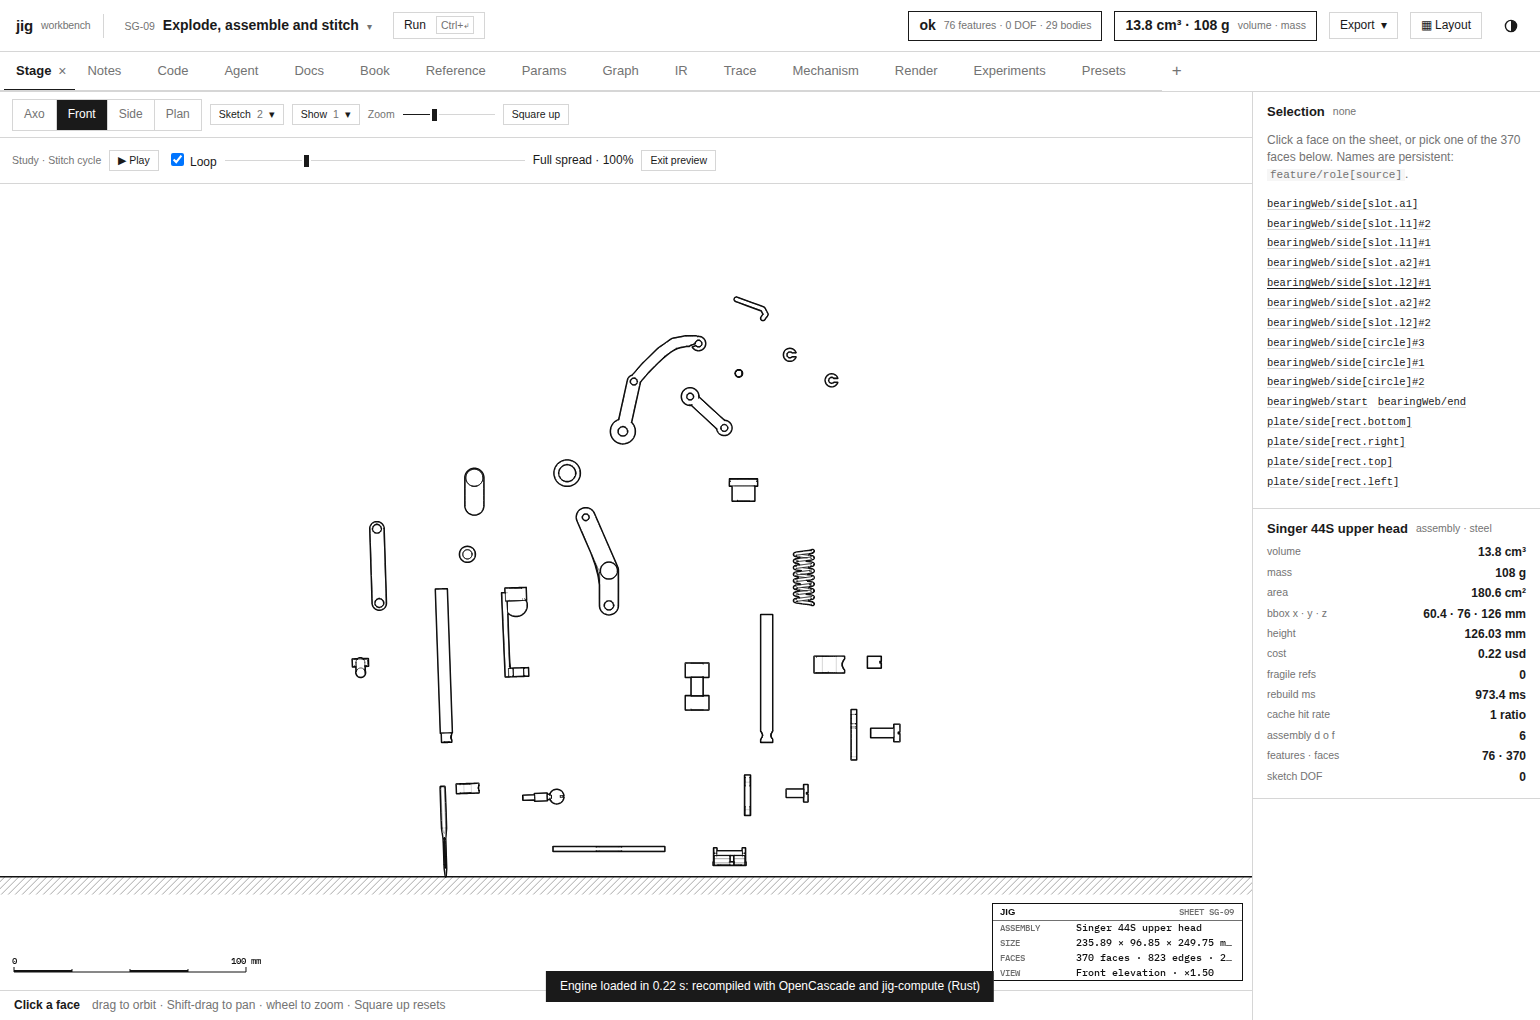
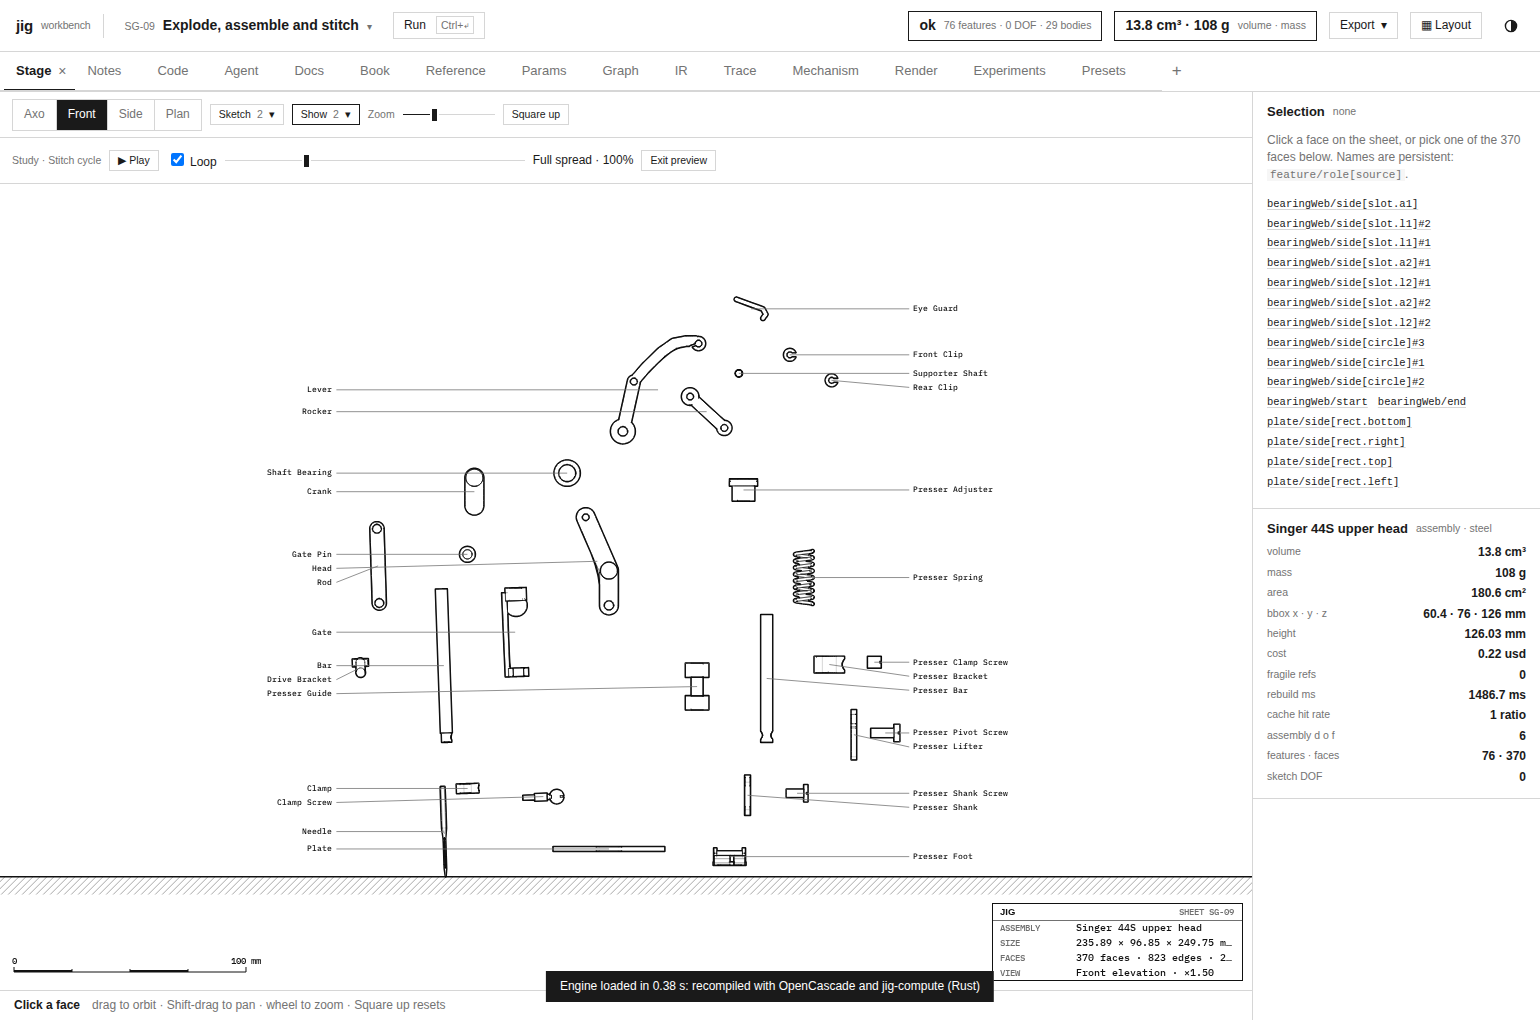
Label assembly components in CAD Stage and fade callouts during explosion

diff --git a/import/jigcad/src/stage/sheet.js b/import/jigcad/src/stage/sheet.js
@@ -4,7 +4,7 @@
 // ring stroke; silhouettes at the silhouette stroke; overlays; the sketch; the sheet furniture.
 import { V, boxOk, boxCorners, boxSize, emptyBox, growBox, fmtNum, fmtVolume, applyM, applyDir } from './math.js';
 import { VIEWS, SUN, normView, viewCam, proj, makeCam } from './camera.js';
-import { readColors, K, hatchPattern, rgba32, text, toneOf } from './theme.js';
+import { readColors, K, hatchPattern, rgba32, text, textWidth, toneOf } from './theme.js';
 import { sceneOf, sceneFacts, sketchToWorld, sameBody } from './scene.js';
 import { buffers, projectInstance, rasterInstance, paperImage, hatchImage, coverTriangles } from './raster.js';
 import { lineWork } from './lines.js';
@@ -17,6 +17,7 @@ export const OVERLAYS = [
   { key: 'shadows', label: 'Shadows', about: 'hatched sun shadows on the floor', on: true },
   { key: 'grid', label: 'Grid', about: 'the floor grid', on: true },
   { key: 'names', label: 'Names', about: 'face and edge names under the pointer', on: true },
+  { key: 'componentNames', label: 'Component names', about: 'label assembly components on the sheet', on: false },
   { key: 'dims', label: 'Dims', about: 'overall dimensions of the bounding box', on: true },
   { key: 'hidden', label: 'Hidden', about: 'hidden edges, dashed', on: false },
   { key: 'overhang', label: 'Overhang', about: 'faces that print over air, hatched', on: false },
@@ -172,6 +173,8 @@ export function draw(canvas, program, viewIn, o = {}) {
 
   // ---- overlays
   if (!sketchView && !thumb) {
+    if (has('componentNames') && program?.kind === 'assembly' && o.componentNameOpacity !== 0)
+      drawComponentNames(ctx, C, state, o.componentNameOpacity ?? 1);
     if (has('normals')) drawNormals(ctx, C, state);
     if (has('dims') && scene.instances.length) drawBoxDims(ctx, C, state);
     if (has('joints') && program?.kind === 'assembly') drawMechanism(ctx, C, state, program);
@@ -419,4 +422,54 @@ function titleRows(program, scene, view, cam, sk) {
   }
   rows.push(['VIEW', vname + zoom]);
   return rows;
+}
+
+// One leader per occurrence. A multi-body component contributes one combined
+// world-space box, so its callout follows every pose, including a Stage drag.
+function drawComponentNames(ctx, C, { cam, scene, width, height }, opacity) {
+  const boxes = new Map();
+  for (const { body, box } of scene.instances) {
+    if (!body.part) continue;
+    const bounds = boxes.get(body.part) ?? emptyBox();
+    growBox(bounds, box[0]);
+    growBox(bounds, box[1]);
+    boxes.set(body.part, bounds);
+  }
+  const visible = [];
+  for (const [id, box] of boxes) {
+    const [x, y] = proj(cam, box[0].map((v, i) => (v + box[1][i]) / 2));
+    if (x >= 0 && x <= width && y >= 0 && y <= height) {
+      const words = id.replace(/([a-z0-9])([A-Z])/g, '$1 $2').replace(/[_-]/g, ' ');
+      visible.push({ x, y, name: words[0].toUpperCase() + words.slice(1) });
+    }
+  }
+  visible.sort((a, b) => a.x - b.x);
+  const middle = Math.ceil(visible.length / 2);
+  ctx.save();
+  ctx.globalAlpha = opacity;
+  ctx.lineWidth = 0.75;
+  for (const [side, column] of [visible.slice(0, middle), visible.slice(middle)].entries()) {
+    if (!column.length) continue;
+    const right = side === 1;
+    const size = K.labelSm;
+    const longest = Math.max(...column.map(p => textWidth(ctx, p.name, size)));
+    const columnX = right ? Math.min(width - longest - 8, column.at(-1).x + 24)
+      : Math.max(longest + 8, column[0].x - 24);
+    column.sort((a, b) => a.y - b.y);
+    const gap = Math.min(size + 6, Math.max(0, height - 60) / Math.max(1, column.length - 1));
+    let previous = 4 - gap;
+    column.forEach(({ x, y, name }, i) => {
+      const bottom = height - 52 - gap * (column.length - 1 - i);
+      const lineY = Math.min(bottom, Math.max(previous + gap, y, size));
+      previous = lineY;
+      ctx.strokeStyle = C.muted;
+      ctx.beginPath();
+      ctx.moveTo(x, y);
+      ctx.lineTo(columnX, lineY);
+      ctx.stroke();
+      text(ctx, C, name, columnX + (right ? 4 : -4), lineY,
+        { size, align: right ? 'left' : 'right', bg: C.stage });
+    });
+  }
+  ctx.restore();
 }

diff --git a/import/jigcad/src/stage/stage.js b/import/jigcad/src/stage/stage.js
@@ -44,6 +44,7 @@ export function createStage(element, host = {}, options = {}) {
     if (!W || !H) size();
     const dpr = Math.min(2, globalThis.devicePixelRatio || 1);
     last = draw(canvas, posedProgram(), view, { width: W, height: H, dpr, overlays: on, selection, sketches: solved, sheet: options.sheet || (host.preset && host.preset.id) || 'J-01', colorsFrom: element, dragging: drag && drag.ref,
+      componentNameOpacity: preview?.componentNameOpacity,
       pose: preview?.pose ?? posed?.pose, fitBox: previewFit ?? (heldFit && heldFit.name === (program && program.name) && view.name !== 'sketch' ? heldFit.box : null) });
     // a sketch keeps the fit it was first drawn with, so solves and drags do not move the camera
     if (last.sketchView && !view.sketchFit && last.cam.fit) view = normView({ ...view, sketchFit: last.cam.fit });

diff --git a/import/jigcad/src/host/host.js b/import/jigcad/src/host/host.js
@@ -36,6 +36,7 @@ export const OVERLAYS = [
   { key: 'shadows', label: 'Shadows', about: 'hatched sun shadows on the floor', on: true },
   { key: 'grid', label: 'Grid', about: 'the floor grid', on: true },
   { key: 'names', label: 'Names', about: 'face and edge names under the pointer', on: true },
+  { key: 'componentNames', label: 'Component names', about: 'label assembly components on the sheet', on: false },
   { key: 'dims', label: 'Dims', about: 'overall dimensions of the bounding box', on: true },
   { key: 'hidden', label: 'Hidden', about: 'hidden edges, dashed', on: false },
   { key: 'overhang', label: 'Overhang', about: 'faces that print over air, hatched', on: false },

diff --git a/import/jigcad/src/ui/views/study-playback.jsx b/import/jigcad/src/ui/views/study-playback.jsx
@@ -97,7 +97,8 @@ function TrackControls({ host, program, study }) {
         for (let axis = 0; axis < 3; axis++) pose[id][12 + axis] += offset[axis] * frame.spread;
       } else pose[id] = matrix;
     }
-    host.emit('studyPreview', { pose, row: study.rows[frame ? frame.source : index], drive: study.drive, offsets: presentation?.offsets });
+    host.emit('studyPreview', { pose, row: study.rows[frame ? frame.source : index], drive: study.drive,
+      componentNameOpacity: presentation?.fadeComponentNames ? frame.spread : undefined, offsets: presentation?.offsets });
     current.current = index;
     setRow(index);
     setPreview(true);

diff --git a/ttmp/2026/11/24/SINGER-002--singer-44s-component-reconstruction-and-looping-playback/diary/01-implementation-and-geometry-evidence-diary.md b/ttmp/2026/11/24/SINGER-002--singer-44s-component-reconstruction-and-looping-playback/diary/01-implementation-and-geometry-evidence-diary.md
@@ -150,3 +150,35 @@ Playback spends three seconds opening, one second at full spread, three seconds 
 The implementation checkpoint was 66dab82. I ran the ticket's scripts/13-check-exploded-head.cjs against the server on port 18965. Chromium confirmed that Loop started enabled and that playback advanced from the last sewing sample into the opening segment.
 
 The script compared all 16 placement matrix entries for each of the 29 occurrences against the prescribed offsets at full spread, and against the home pose after reassembly and at 720 degrees (tolerance 0.00001). It also checked that the presser foot stayed seated while the needle moved. I enlarged the default view after inspecting the first screenshot and reran the browser check. The four SG-09 PNGs in sources/workbench show front and axonometric spread, reassembly and sewing. These are workbench captures of reconstructed parts. The original photographs remain in the ticket's source archive.
+
+## Step 6. Label each moving occurrence on the CAD sheet
+
+“could we add showing component names, and could we animate that option too? or does the framework make animation show options complicated?” The Stage now has a Component names switch for assemblies. SG-09 starts with it enabled.
+
+### What I did and why
+
+The renderer groups posed body bounds by occurrence and projects one anchor for each component. Two ordered columns keep adjacent names apart and leader lines associate them with the parts. The display uses the occurrence ID, expanded into words, so the front and rear clips keep separate labels.
+
+### What worked
+
+The Stage unit suite passed 21/21. The ticket's script 13 ran in Chromium against port 18965, toggled the overlay through Show and checked actual canvas text calls for Presser Foot at half spread, full spread, after hiding names, and after reassembly. The same run checked all 29 poses and the loop wrap. I inspected the resulting front-view screenshot and saved the axonometric view as well.
+
+### What was tricky to build
+
+The Show switch records a user preference, while opacity belongs to a particular animation sample. Drawing uses both, so scrubbing backwards restores the appropriate opacity and disabling the switch suppresses labels even at full spread.
+
+### What I learned
+
+The Stage already receives the transformed bodies for every playback sample. Labels can use that same scene without recomputing the mechanical study.
+
+### What warrants a second pair of eyes
+
+Very dense assemblies or a short viewport leave less space between labels. The columns are laid out anew as the camera or occurrence positions change.
+
+### Code review instructions
+
+Review drawComponentNames in sheet.js and the studyPreview emission in study-playback.jsx. Run node import/jigcad/test/stage/unit.mjs and the ticket's scripts/13-check-exploded-head.cjs.
+
+### Technical details
+
+SG-09 opts in with presentation.fadeComponentNames. Label opacity takes the same eased 0-to-1 spread value as the explosion translations. Exiting preview restores full opacity to enabled labels.

diff --git a/import/jigcad/content/presets/SG-09-exploded-head/notes.md b/import/jigcad/content/presets/SG-09-exploded-head/notes.md
@@ -5,3 +5,5 @@ Press **Play** in CAD Stage. The casting stays fixed as the needle drive opens t
 The parts return to their solved positions before the shaft makes two revolutions. The needle changes sides and returns to its starting position. The presser foot stays down on both strokes. Loop starts enabled and can be switched off during playback.
 
 All 29 occurrences use the SG-03 and SG-06 part definitions. The spread distances are illustration offsets in millimetres. They do not specify service removal paths. The hook, bobbin and feed mechanism lie outside this upper-head model.
+
+**Show → Component names** toggles the callouts. During this presentation their opacity follows the spread, including when you scrub backwards. Exit preview to see the labeled assembled head.
